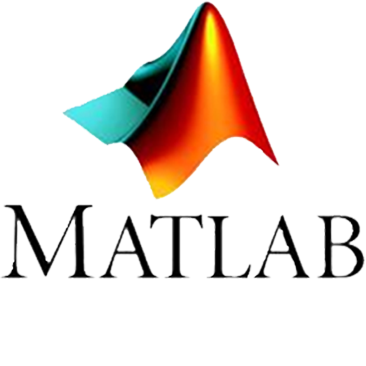
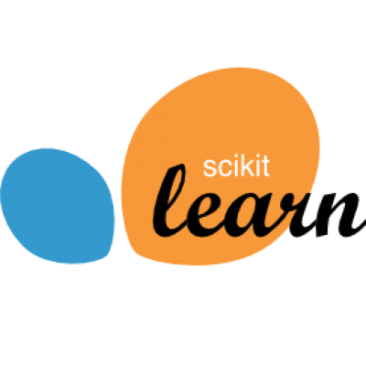
slide1 slide5

diff --git a/js/lang.js b/js/lang.js
@@ -14,9 +14,9 @@ var arrLang={
     'slide-1-web-5':'Research and prediction of the startups’ success on kickstarter platform (publication-2019)',
     'slide-1-web-6':'Spectral and cepstral sound analysis for voice identification (publication-2016)',
     'slide-1-title-3':'Technologies I use:',
-    'slide-1-techno-1':'C# language',
-    'slide-1-techno-2':'Matlab (for mathematical tasks and modeling)',
-    'slide-1-techno-3':'EViews (for time series analysis)',
+    'slide-1-techno-1':'Python',
+    'slide-1-techno-2':'Scikit learn',
+    'slide-1-techno-3':'Python_speech_features lib',
 
     'slide-2-title-2':'Some Android and web app with java and kolin:',
     'slide-2-web-1':'Website for passing tests (is designed for students and teachers)',
@@ -53,7 +53,6 @@ var arrLang={
     'slide-4-techno-3':'(WPF, Winforms)',
 
     'slide-5-title-1':'Hi, my name is Yaroslav, nice to meet you :)',
-    'slide-5-text-2':'purposeful',
     'slide-5-text-4':'I have a bachelor\'s degree in the',
     'iasa':'IASA',
     'kpi':'KPI',
@@ -74,9 +73,9 @@ var arrLang={
     'slide-1-web-5':'Исследование и прогнозирование успешности стартапов платформы kickstarter (публикация-2019)',
     'slide-1-web-6':'Спектральный и кепстральный анализ звука для идентификации голоса (публикация-2016)',
     'slide-1-title-3':'Технологии, которые использую:',
-    'slide-1-techno-1':'C# language',
-    'slide-1-techno-2':'Matlab (для мат. задач и моделирования)',
-    'slide-1-techno-3':'EViews (для анализа временных рядов)',
+    'slide-1-techno-1':'Python',
+    'slide-1-techno-2':'Scikit learn',
+    'slide-1-techno-3':'Библиотека python_speech_features',
 
     'slide-2-title-2':'Мои андроид- и веб- приложения:',
     'slide-2-web-1':'Веб приложение (Java) для создания и прохождения тестов (например, в университете)',
@@ -112,7 +111,6 @@ var arrLang={
     'slide-4-techno-3':'(WPF, Winforms)',
 
     'slide-5-title-1':'Привет, меня зовут Ярослав, приятно познакомиться :)',
-    'slide-5-text-2':'целеустремленный',
     'slide-5-text-4':'имею диплом бакалавра',
     'iasa':"ИПСА",
     'kpi':"КПИ",
@@ -134,9 +132,9 @@ var arrLang={
     'slide-1-web-5':'Дослідження і прогнозування успішності стартапів платформи kickstarter (публікація-2019)',
     'slide-1-web-6':'Спектральний і кепстральний аналіз звука для ідентифікації голоса (публікація-2016)',
     'slide-1-title-3':'Технології, якими користуюсь:',
-    'slide-1-techno-1':'C# language',
-    'slide-1-techno-2':'Matlab (для мат. задач та моделювання)',
-    'slide-1-techno-3':'EViews (для аналізу чясових рядів)',
+    'slide-1-techno-1':'Python',
+    'slide-1-techno-2':'Scikit learn',
+    'slide-1-techno-3':'Бібліотека python_speech_features',
 
     'slide-2-title-2':'Android-, та веб- додатки:',
     'slide-2-web-1':'Веб додаток (Java) для створення (викладачем) та проходження (студентом) тестів онлайн',
@@ -172,7 +170,6 @@ var arrLang={
     'slide-4-techno-3':'(WPF, Winforms)',
 
     'slide-5-title-1':'Привіт, мене звуть Ярослав, приємно познайомитися :)',
-    'slide-5-text-2':'цілеспрямований',
     'slide-5-text-4':'маю диплом магістра',
     'iasa':"ІПСА",
     'kpi':"КПІ",

diff --git a/index.html b/index.html
@@ -81,7 +81,6 @@
 
         <div class="modal-content">
             <span class="close-button">&times;</span>
-            <!-- <h1>Hello, I am a modal!</h1> -->
             <div class="slide-modal">
               <div class="content">
               <div id="includedContent"></div>
@@ -92,7 +91,7 @@
         <div id="tooltip-span-2" class="lang tooltip-span-smartphone" key="click_to_close-4"></div>
     </div>
   </div>
-  <footer>Copyright © 2020 YG</footer>
+  <footer>2020 © YG</footer>
   <script src="js/lang.js" ></script>
     <script src="js/langChooser.js" ></script>
 </body>

diff --git a/slides/slide-5.html b/slides/slide-5.html
@@ -3,7 +3,6 @@
 
 <h2 class="lang" key="slide-5-title-1">Привет, меня зовут Ярослав, приятно познакомиться :)</h2>
 <ul class="simple-text">
-  <li class="lang" key="slide-5-text-2">целеустремленный</li>
   <li><span class="lang" key="slide-5-text-4">имею диплом бакалавра</span> <a class="lang" key="kpi" href="http://kpi.ua/"  target="_blank">КПИ</a> <a class="lang" key="iasa" href="http://studsovet.ipsa.kpi.ua/"  target="_blank">ИПСА</a> <span class="lang" key="ukraine"></span></li>
 </ul>
 

diff --git a/slides/slide-1.html b/slides/slide-1.html
@@ -75,7 +75,9 @@
   </div>
 </div>
 <div class="techno-3 polaroid-techno science">
-  <img src="img/big-slides/science/t3.png" alt="js ico">
+  <a href="https://python-speech-features.readthedocs.io/en/latest/" target="_blank">
+    <img src="img/big-slides/science/t3.png" alt="js ico">
+  </a>
   <div class="container">
   <div class="lang" key="slide-1-techno-3">EViews (для анализа временных рядов)</div>
   </div>
